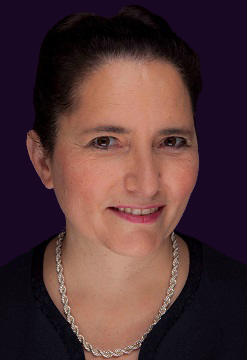
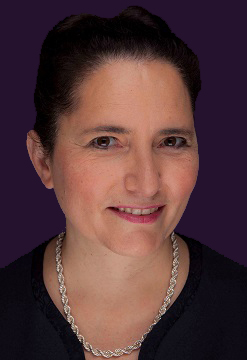
change violet

diff --git a/ChrNagad.css b/ChrNagad.css
@@ -4,7 +4,7 @@ html {
 }
 body {
   color: whitesmoke;
-  background-color: rgb(25, 8, 35);
+  background-color: rgb(37, 18, 46);
   margin: auto;
 }
 /*---------------- boutons de bas de page ---------------*/
@@ -36,7 +36,7 @@ body {
   border-radius: 1rem;
   border-width: 0.5px;
   border-color: whitesmoke;
-  background-color: rgb(25, 8, 35);
+  background-color: rgb(37, 18, 46);
   color: whitesmoke;
 }
 #bouton4Haut {
@@ -51,7 +51,7 @@ body {
   border-width: 0.5px;
   color: #0080FF;
   border-color: #0080FF;
-  background-color: rgb(25, 8, 35);
+  background-color: rgb(37, 18, 46);
 }
 #bouton1Bas, #bouton2Bas, #bouton2Haut, #bouton3Bas, #bouton3Haut, #bouton4Haut {
   padding: 1rem;
@@ -59,7 +59,7 @@ body {
   border-radius: 1rem;
   border-width: 0.5px;
   border-color: whitesmoke;
-  background-color: rgb(25, 8, 35);
+  background-color: rgb(37, 18, 46);
   color: whitesmoke;
 }
 #bouton1Bas {
@@ -79,7 +79,7 @@ body {
     border-radius: 1rem;
     border-width: 0.5px;
     border-color: whitesmoke;
-    background-color: rgb(25, 8, 35);
+    background-color: rgb(37, 18, 46);
     color: whitesmoke;
   }
   #bouton2Haut, #bouton3Haut{
@@ -88,7 +88,7 @@ body {
     border-radius: 1rem;
     border-width: 0.5px;
     border-color: whitesmoke;
-    background-color: rgb(25, 8, 35);
+    background-color: rgb(37, 18, 46);
     color: whitesmoke;
   }
   #bouton4Haut{
@@ -97,7 +97,7 @@ body {
     border-radius: 1rem;
     border-width: 0.5px;
     border-color: whitesmoke;
-    background-color: rgb(25, 8, 35);
+    background-color: rgb(37, 18, 46);
     color: whitesmoke;
   }
   #envoyer {
@@ -146,7 +146,7 @@ h1 {
 #hautPage2 {
   display : flex;
   flex-direction: row;
-      width: 92% ;
+  width: 92% ;
 }
 #formation {
     font-size: 2rem;
@@ -322,7 +322,7 @@ h1 {
   margin: 0rem;
   font-size: 1.5rem;
   text-align: center;
-  background-color: rgb(25, 8, 35);
+  background-color: rgb(37, 18, 46);
   color: whitesmoke;
 }
 .site {
